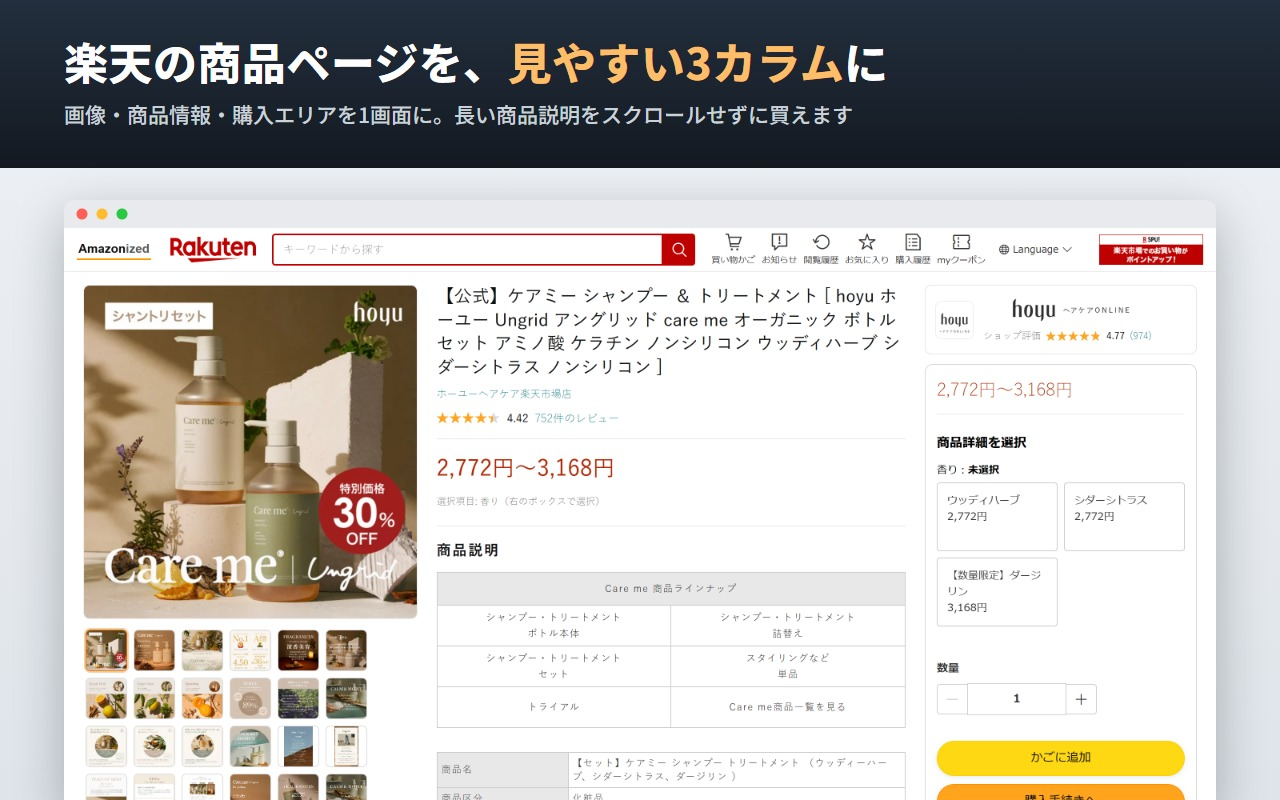
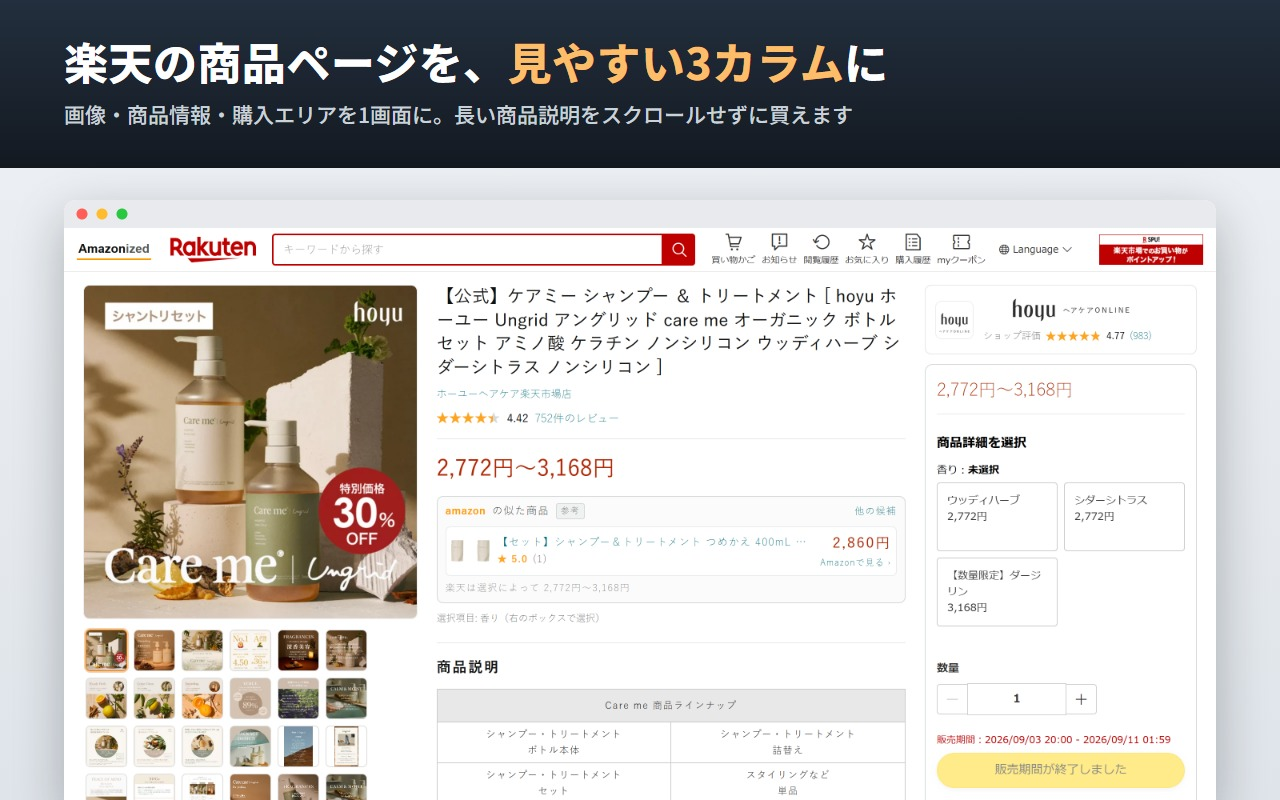
ウェブストアの掲載文と画像を今日の機能に合わせる
商品ページのAmazon価格と、トップからの自動スキャンが画像に写るようにし、
掲載文の機能一覧と storage の用途にも足す。

diff --git a/store/listing.md b/store/listing.md
@@ -46,6 +46,7 @@ Amazonize Rakuten
 
 ■ キャンペーンの一括エントリー
 ・ツールバーのボタンから、楽天トップページに出ているキャンペーンを調べて、未エントリーのものにまとめてエントリー
+・楽天トップページを開いたときにも、裏で自動的に調べてエントリーします（12時間おき。設定でOFFにできます）
 ・表示が「エントリー済み」に変わったことを確かめてから記録します
 ・楽天には無い「エントリー済みの一覧」をあとから確認できます
 
@@ -101,7 +102,7 @@ Amazonize Rakuten
 **storage**
 
 ```
-機能ごとのON/OFF設定と、キャンペーンのエントリー結果（エントリー済み一覧）、商品ページで獲得したクーポンの一覧（クーポン名・ショップ名・商品名・商品ページのURL）、レビュー評価の一時的なキャッシュを保存するために使います。保存先はユーザーのブラウザ内だけです。
+機能ごとのON/OFF設定と、キャンペーンのエントリー結果（エントリー済み一覧）、キャンペーンの自動スキャンを最後に実行した時刻、商品ページで獲得したクーポンの一覧（クーポン名・ショップ名・商品名・商品ページのURL）、レビュー評価の一時的なキャッシュを保存するために使います。保存先はユーザーのブラウザ内だけです。
 ```
 
 **declarativeNetRequestWithHostAccess**
